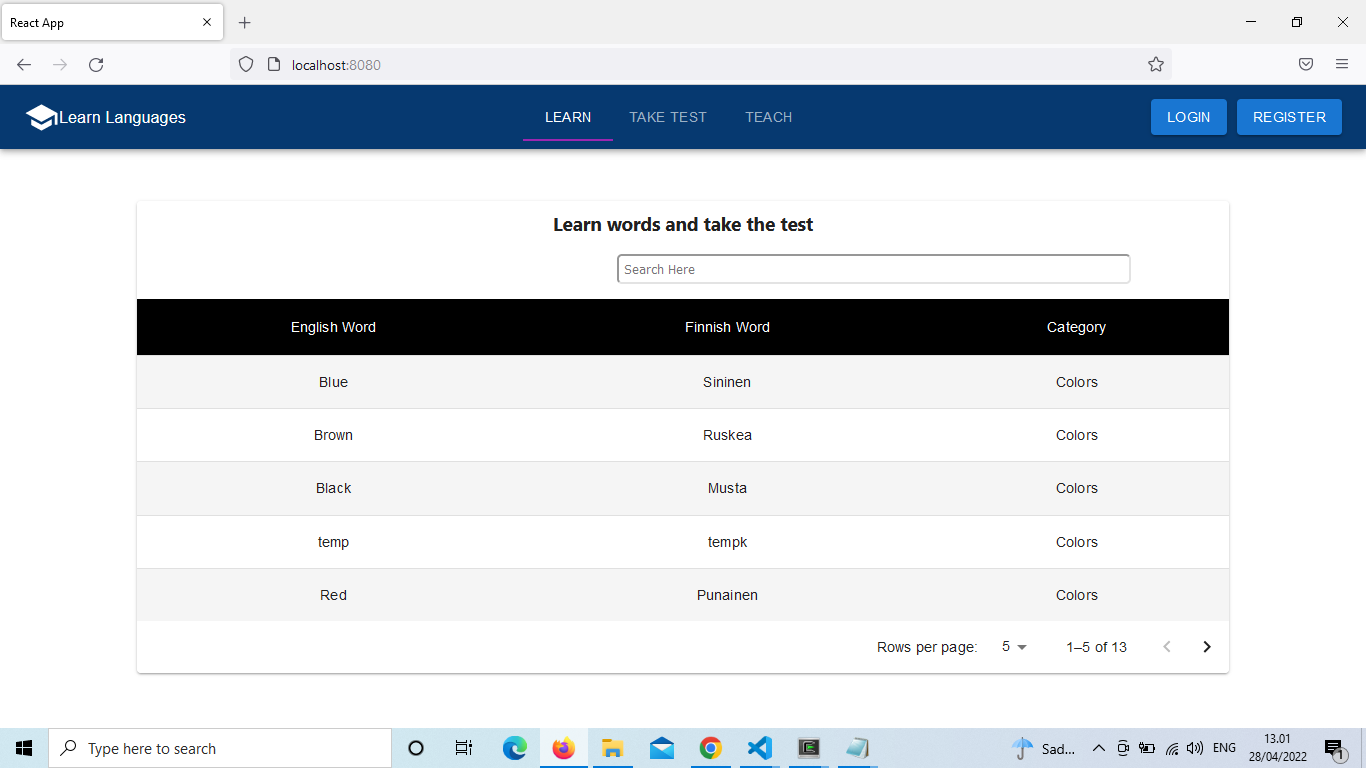
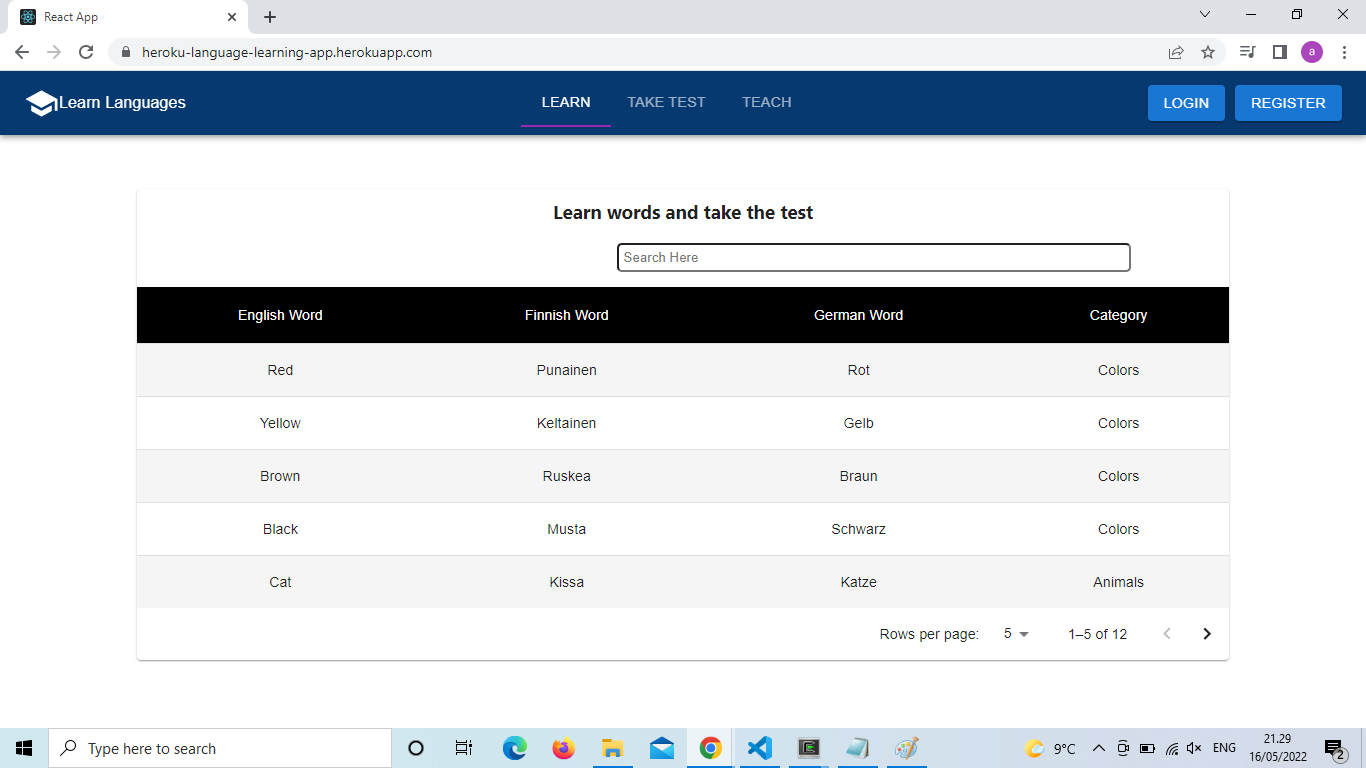
Add assets and documentation for README.md.

diff --git a/README.md b/README.md
@@ -3,6 +3,17 @@
 This is full stack application that helps students to learn forign language grammar. The teacher can add, update, delete the words and their meaning.
 Students can learn these words and then take a test, after which they will get a score.
 
+## Demo of Language Learning App
+
+A demo of this application can be found here.
+[![Link To Video](/assets/images/displayLearn.png)](https://www.youtube.com/watch?v=IMr3McKi8ag)
+
+### Time stamps in the video are as follows:
+
+0:00 - 7:20 - Demo of application
+7:21 - 11:25 - Relevant code
+11:25 - 12:30 - Bugs and self evaluation.
+
 ## Database Structure
 
 The application uses MySQL Database. Run the following statements on the database server to create table.
@@ -35,13 +46,26 @@ ON DELETE SET NULL ON UPDATE CASCADE
 ```
 
 ```
+CREATE TABLE german_word_master(
+id INT AUTO_INCREMENT PRIMARY KEY,
+word VARCHAR(100),
+category_id INT,
+FOREIGN KEY(category_id) REFERENCES category_master(id)
+ON DELETE SET NULL ON UPDATE CASCADE
+);
+```
+
+```
 CREATE TABLE word_meaning(
 id INT AUTO_INCREMENT PRIMARY KEY,
 eng_id INT,
 fin_id INT,
+german_id INT,
 FOREIGN KEY(eng_id) REFERENCES eng_word_master(id)
 ON DELETE SET NULL ON UPDATE CASCADE,
 FOREIGN KEY(fin_id) REFERENCES fin_word_master(id)
+ON DELETE SET NULL ON UPDATE CASCADE,
+FOREIGN KEY(german_id) REFERENCES german_word_master(id)
 ON DELETE SET NULL ON UPDATE CASCADE
 );
 ```
@@ -82,7 +106,7 @@ INSERT INTO category_master (name) VALUES ("COLORS");
    ```
 6. You can now access the [application](http://localhost:8080/)
 
-The links mentioned in front end components are relative. If you want to access the frontend directly make the links absolute in Teach.js and Learn.js. i.e. replace /teach with http://localhost:8080/teach.js and so on.
+The links mentioned in front end components are relative. If you want to access the frontend directly make the links absolute in Teach.js, TakeTest.js and Learn.js. i.e. replace /teach with http://localhost:8080/teach.js and so on.
 
 ## Screenshots
 
@@ -102,9 +126,21 @@ By clicking on icons under "Action" column, the teacher can edit or delete the w
 
 ![Edit Words](/assets/images/edit_del.jpg)
 
+A teacher can also add new category. Just write the name of new category and press "Spacebar"
+
+![Add Category](/assets/images/addCategory.png)
+
 The table also has pagination facility.
 
 ![Pagination](/assets/images/rows.png)
+
+A student can take a test through Take Test Tab. He needs to select 2 languages - one that he knows and other he wants to learn. Select category (but it's optional). If category is not selected, questions appear from random category. Click on start test button.
+
+![Take Test](/assets/images/taketest.png)
+
+After writing down the answers, a student needs to click on verify answer button to generate his score.
+
+![Verify Test](/assets/images/verify.png)
 
 ## Release Information
 
